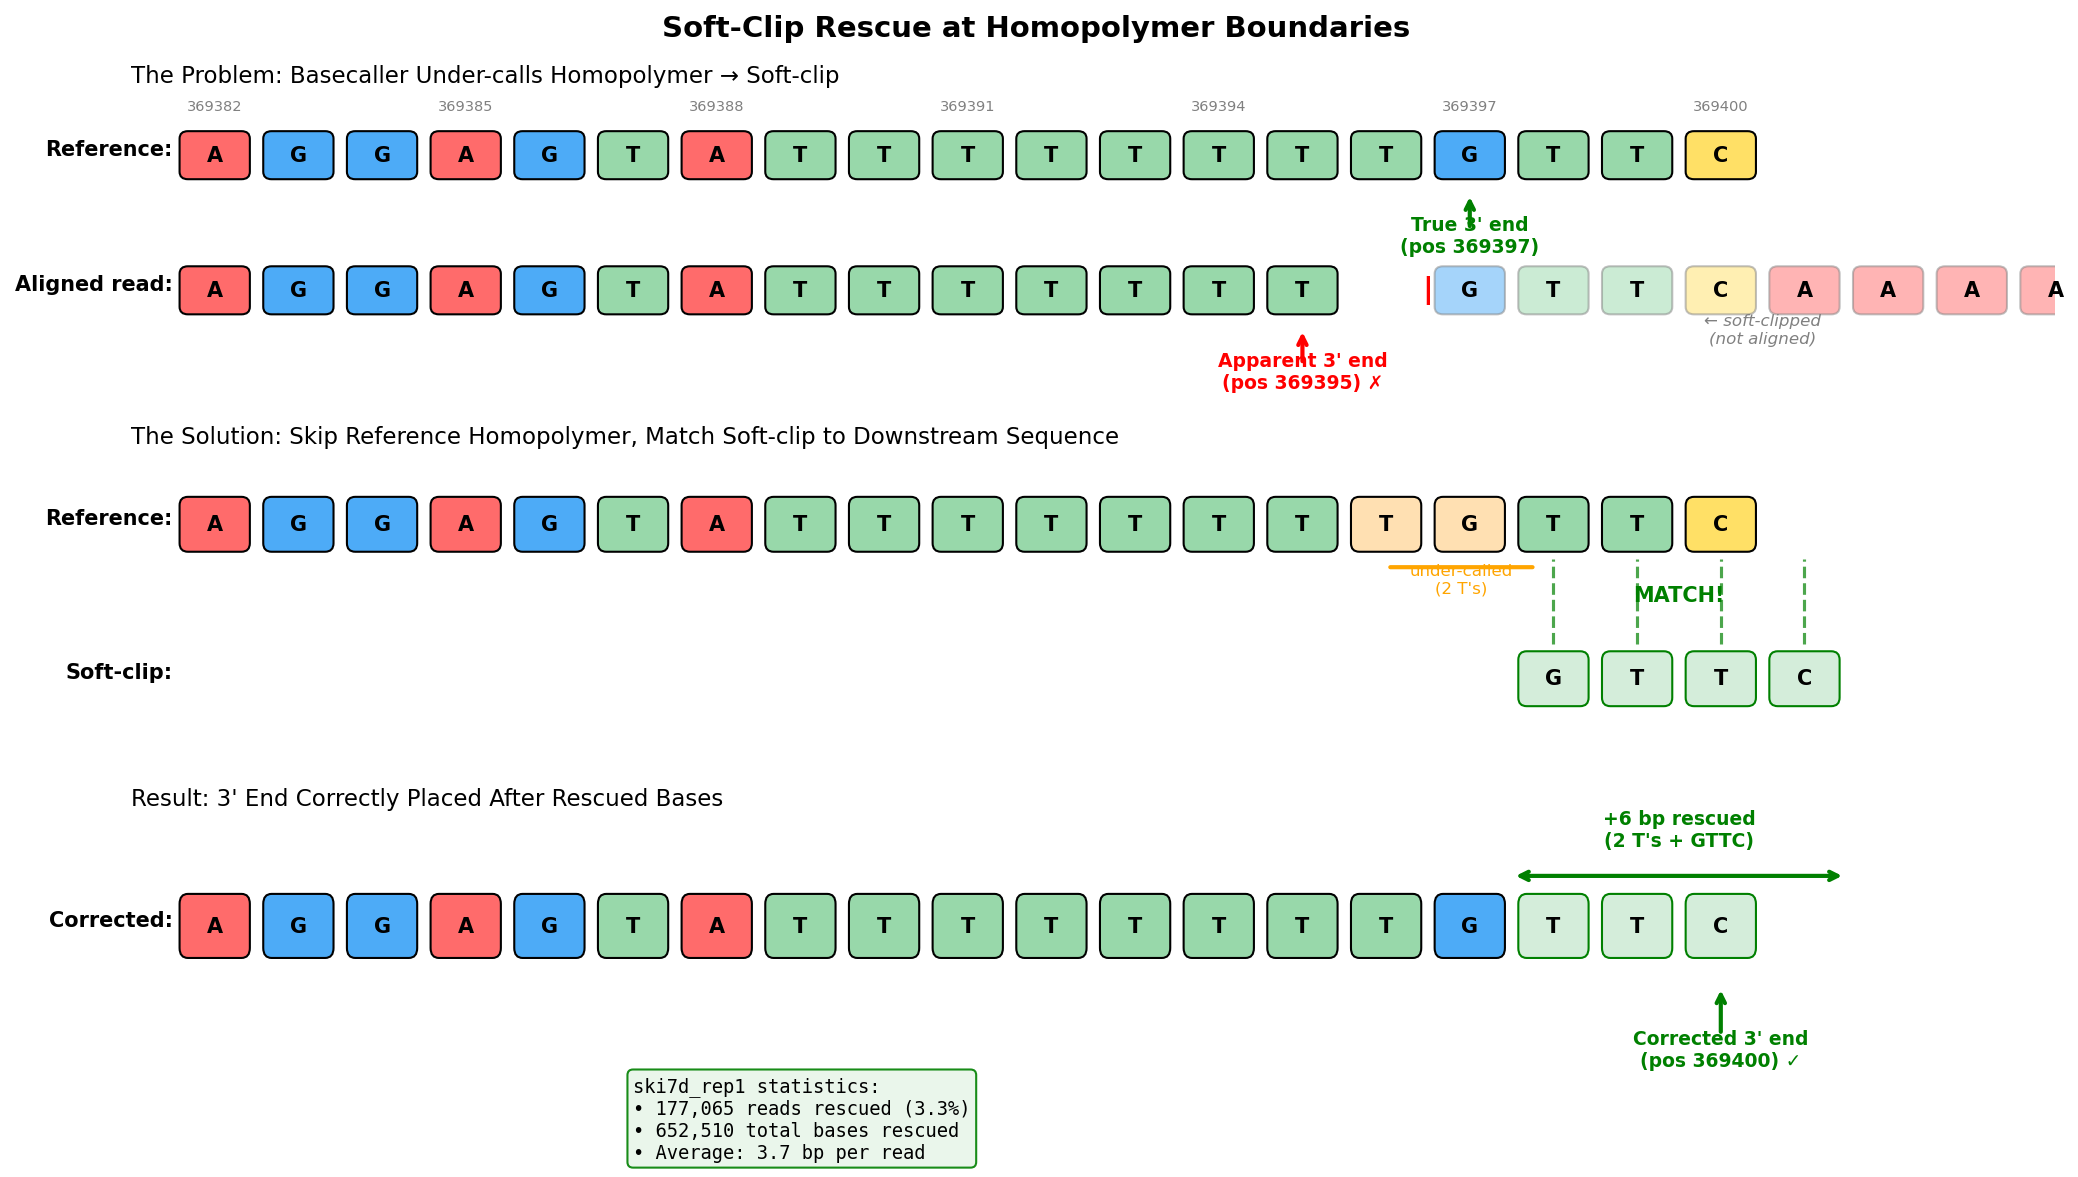
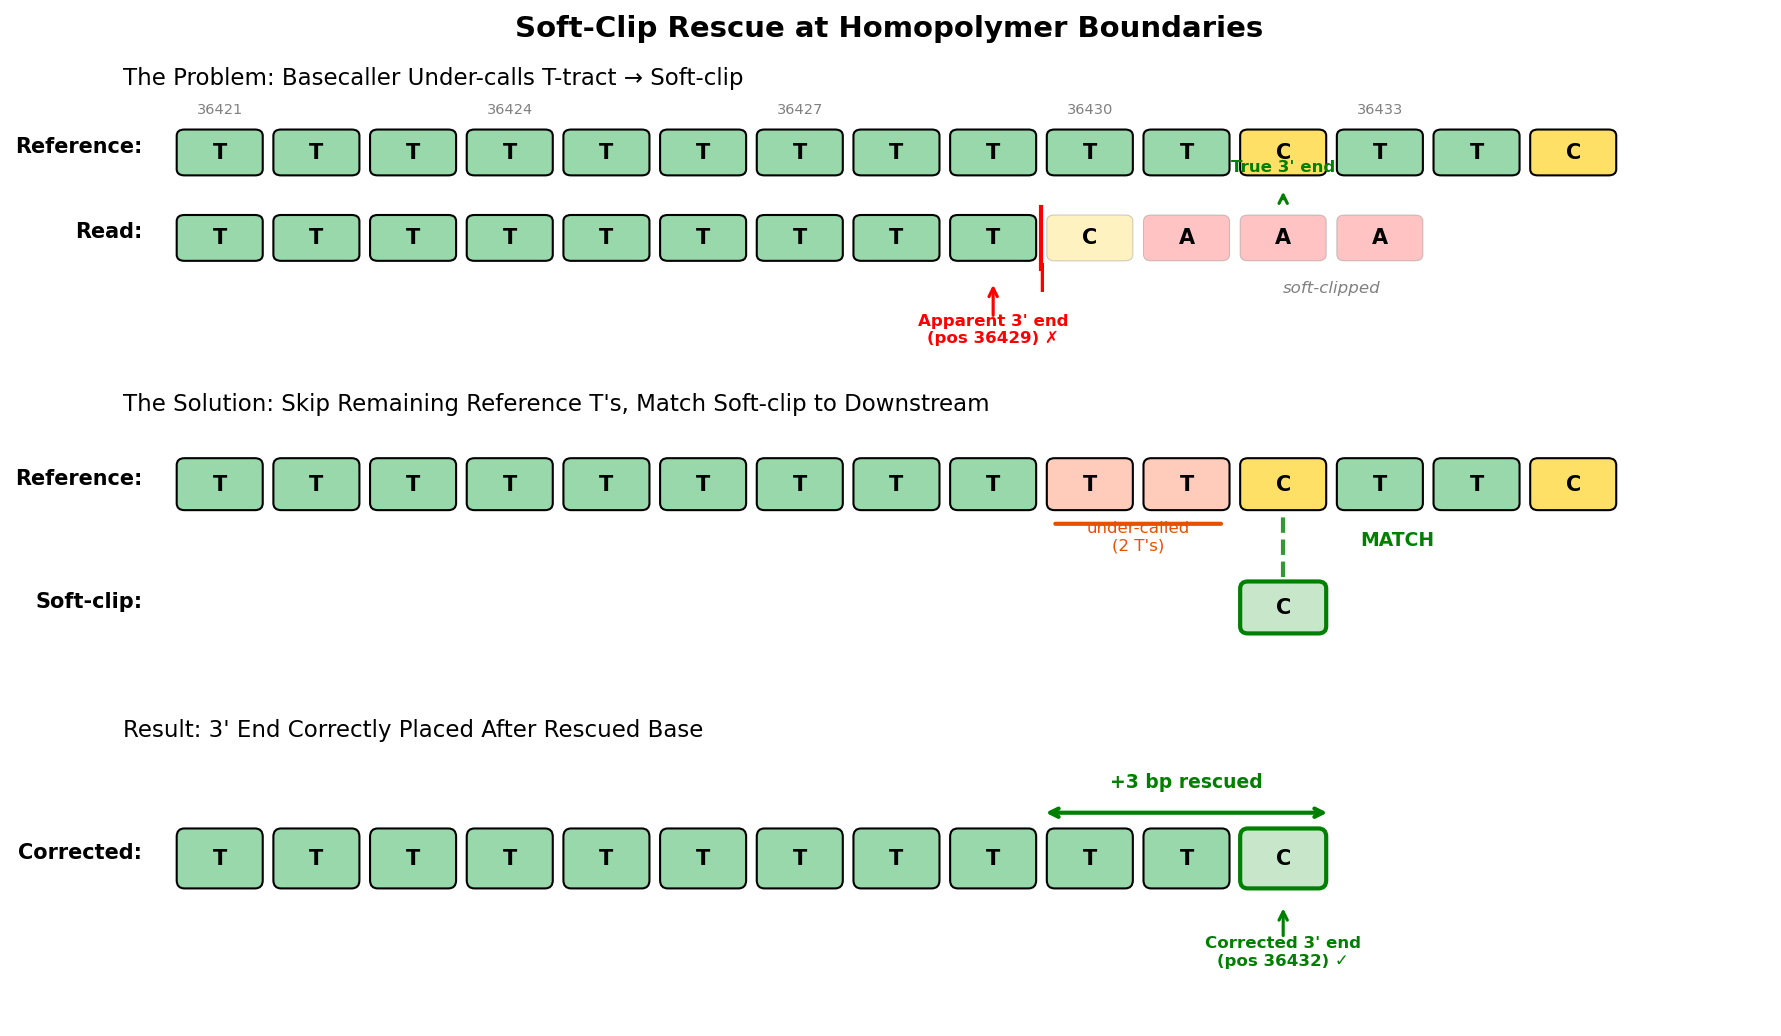
Update soft-clip rescue figure with real data example
- Use actual chrI:36429 example instead of synthetic data
- Cleaner visualization showing T-tract under-calling
- Remove sample-specific statistics from README
- Update acronym expansion

diff --git a/README.md b/README.md
@@ -1,6 +1,6 @@
 # RECTIFY
 
-**R**NA **E**nd **C**orrection **T**ool for **I**ntron re**F**inement with ambiguit**Y** resolution
+**R**NA 5' and 3' **E**nd **C**orrection **T**ool with **I**ntron re**F**inement and ambiguit**Y** resolution
 
 [![PyPI version](https://badge.fury.io/py/rectify-rna.svg)](https://pypi.org/project/rectify-rna/)
 [![License: MIT](https://img.shields.io/badge/License-MIT-yellow.svg)](https://opensource.org/licenses/MIT)
@@ -72,15 +72,13 @@ Nanopore basecallers systematically under-call homopolymer runs (e.g., calling 8
 
 ![Soft-Clip Rescue](docs/images/softclip_rescue.png)
 
-**The Problem:** The basecaller under-calls the T-tract, so when the aligner reaches the non-T base (G), it can't fit it into the shortened homopolymer and soft-clips it instead.
+**The Problem:** The basecaller under-calls the T-tract, so when the aligner reaches the first non-T base, it can't fit it into the shortened homopolymer and soft-clips it instead.
 
 **RECTIFY's Solution:**
 1. Detect soft-clips adjacent to homopolymer boundaries
 2. Skip over remaining reference homopolymer bases (the under-called T's)
 3. Match soft-clipped bases to reference sequence beyond the homopolymer
 4. Extend the 3' end to include the rescued bases
-
-**Result:** 3' end correctly placed after the rescued sequence (e.g., GTTC), recovering ~3.3% of reads with an average of 3.7 bp rescued per read.
 
 ---
 
